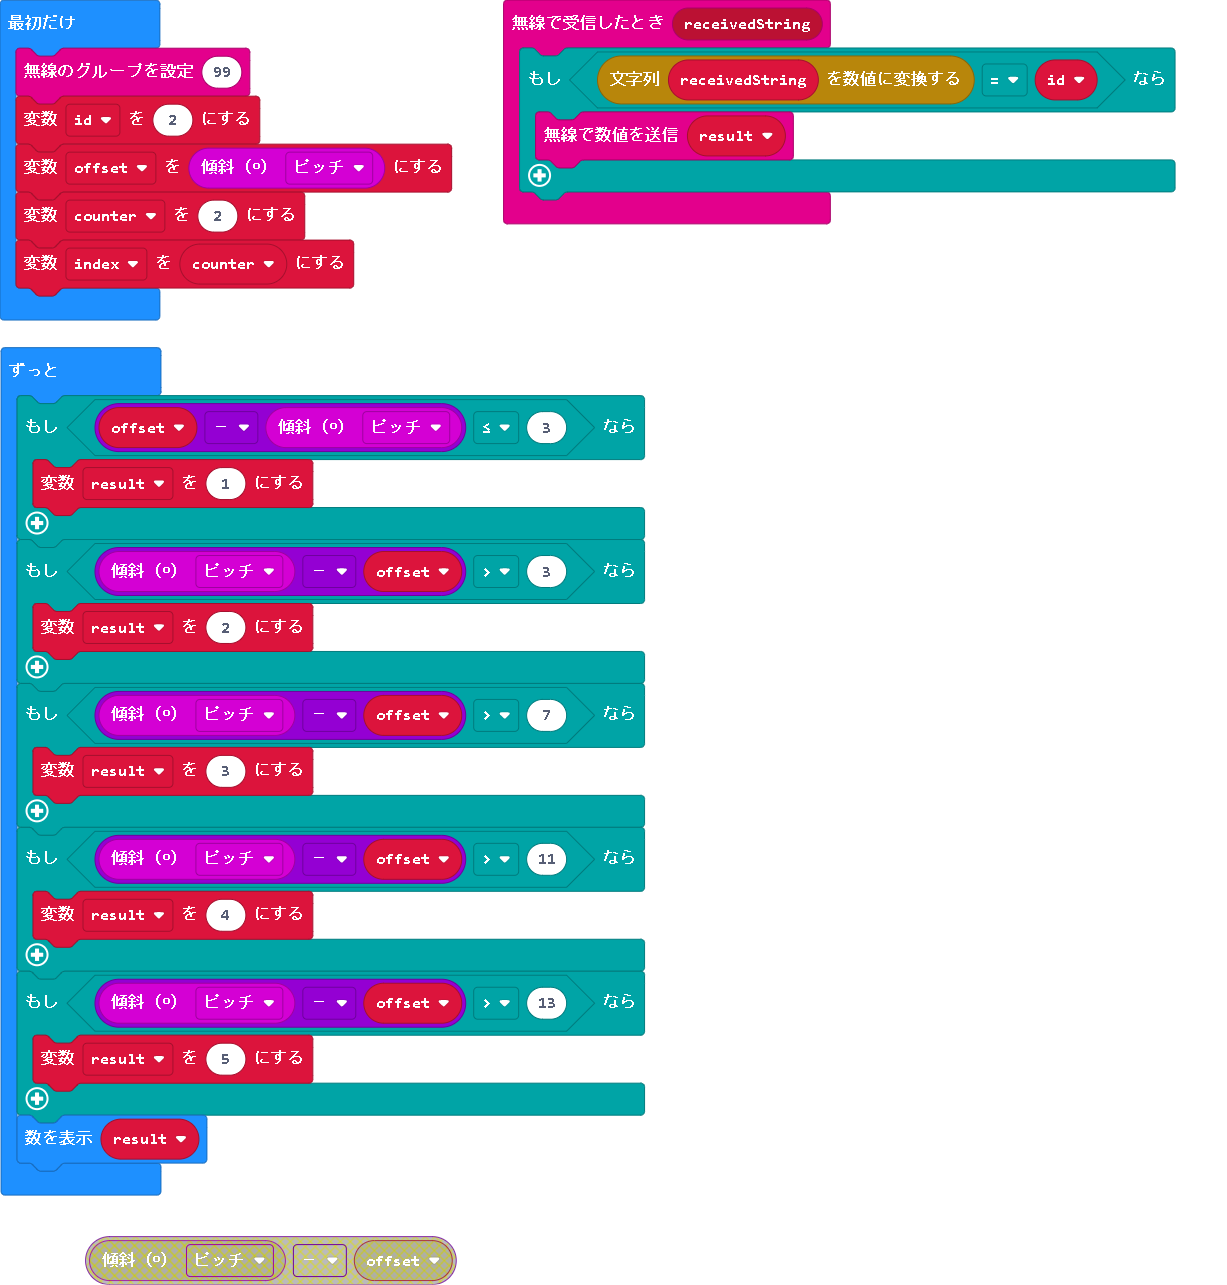
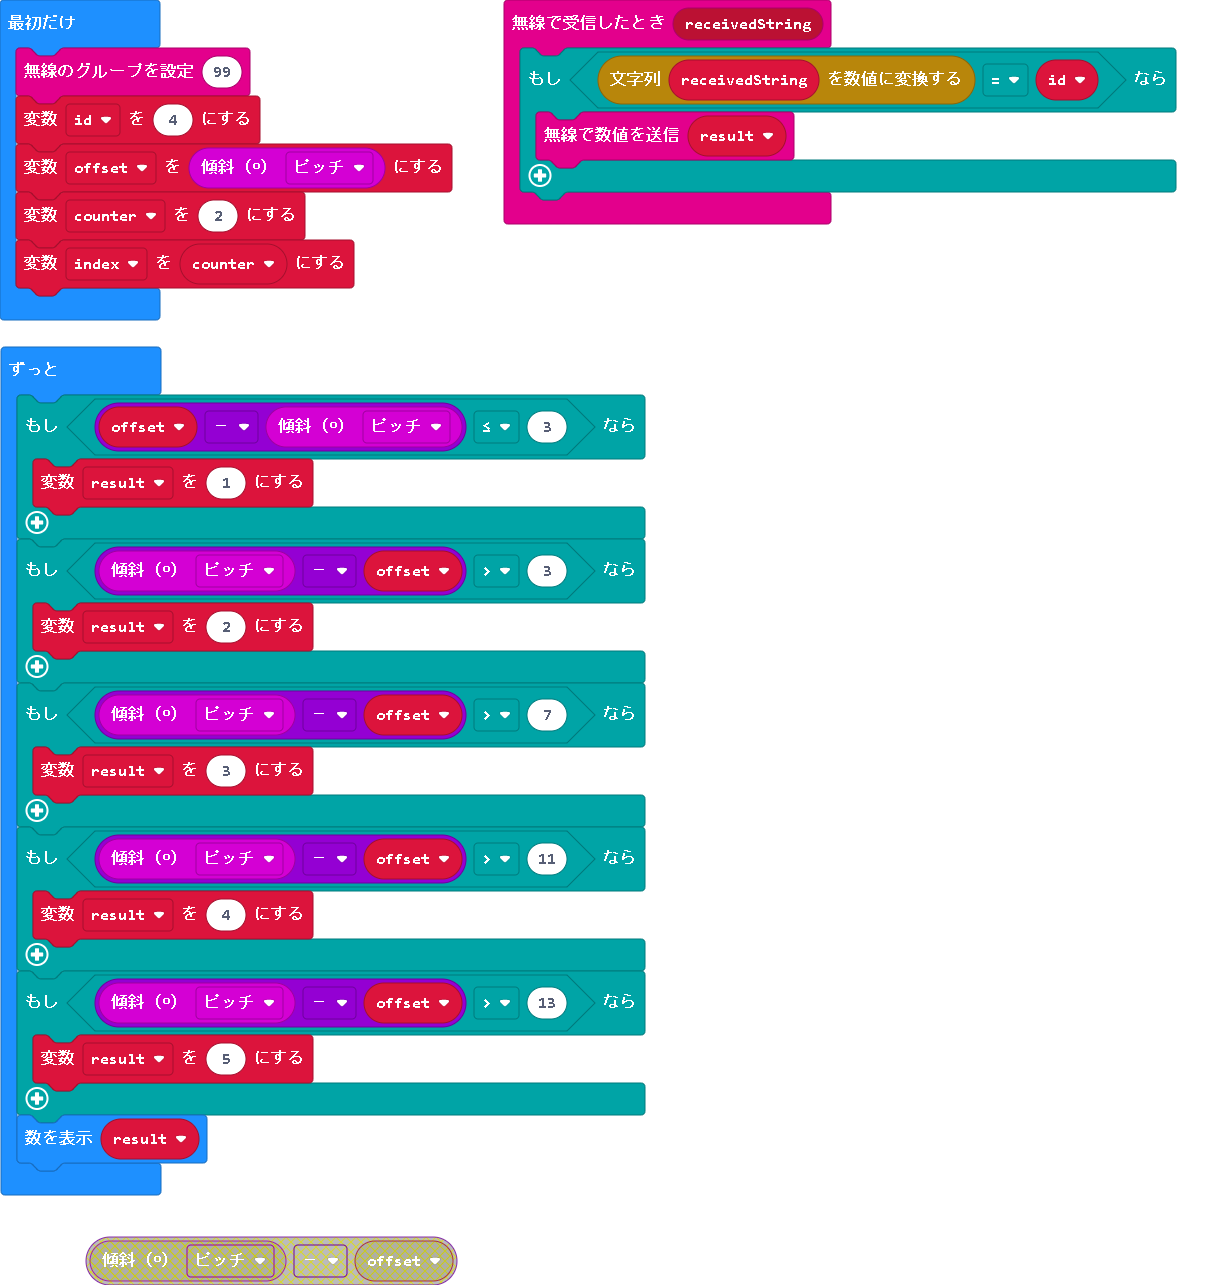
Update main.blocks, main.ts

diff --git a/main.ts b/main.ts
@@ -6,7 +6,7 @@ radio.onReceivedString(function (receivedString) {
 let result = 0
 let id = 0
 radio.setGroup(99)
-id = 2
+id = 4
 let offset = input.rotation(Rotation.Pitch)
 let counter = 2
 let index = counter
